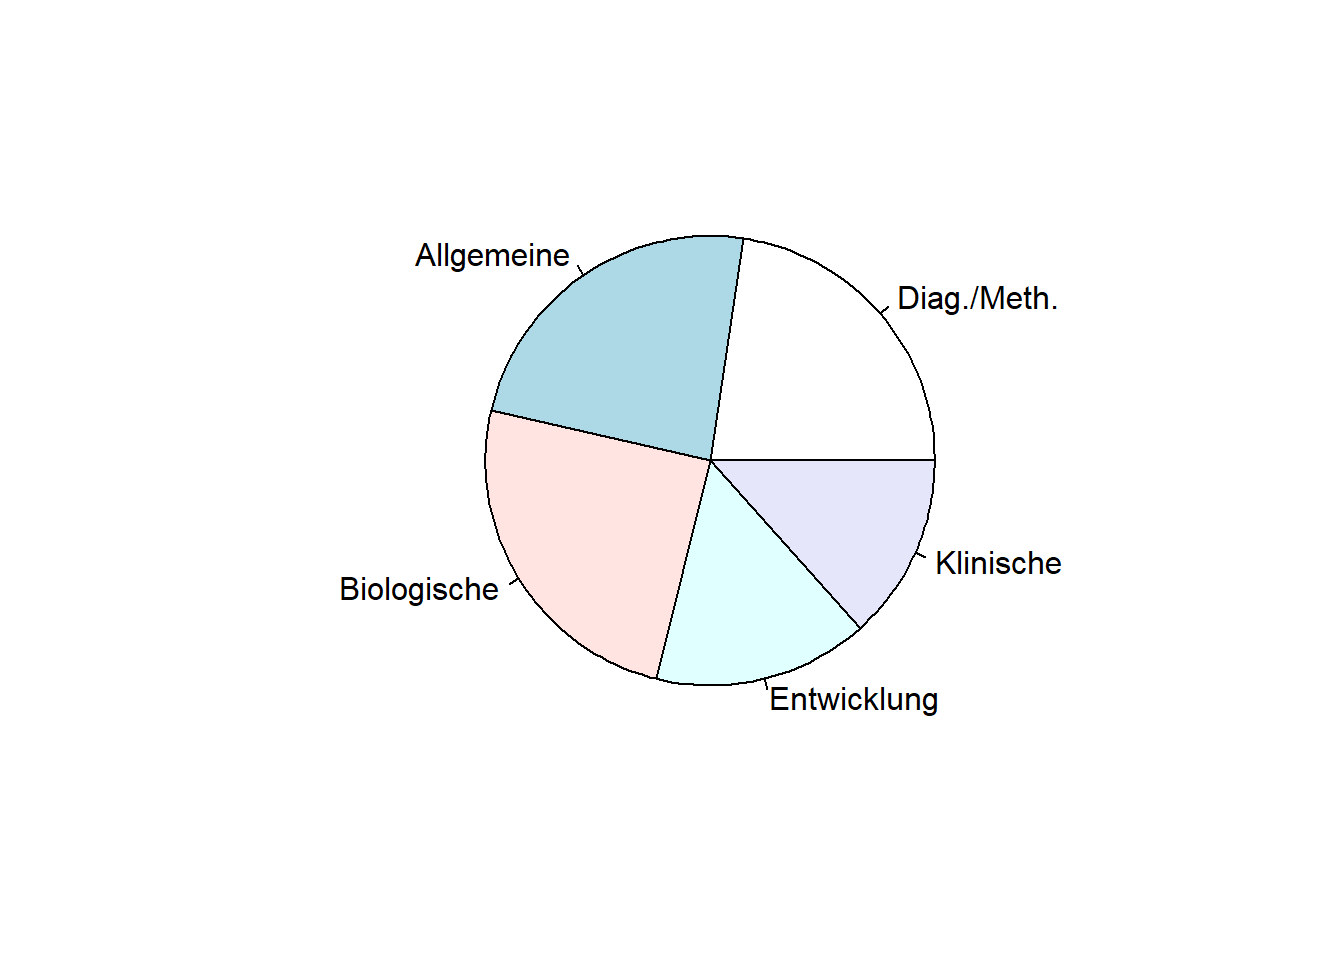
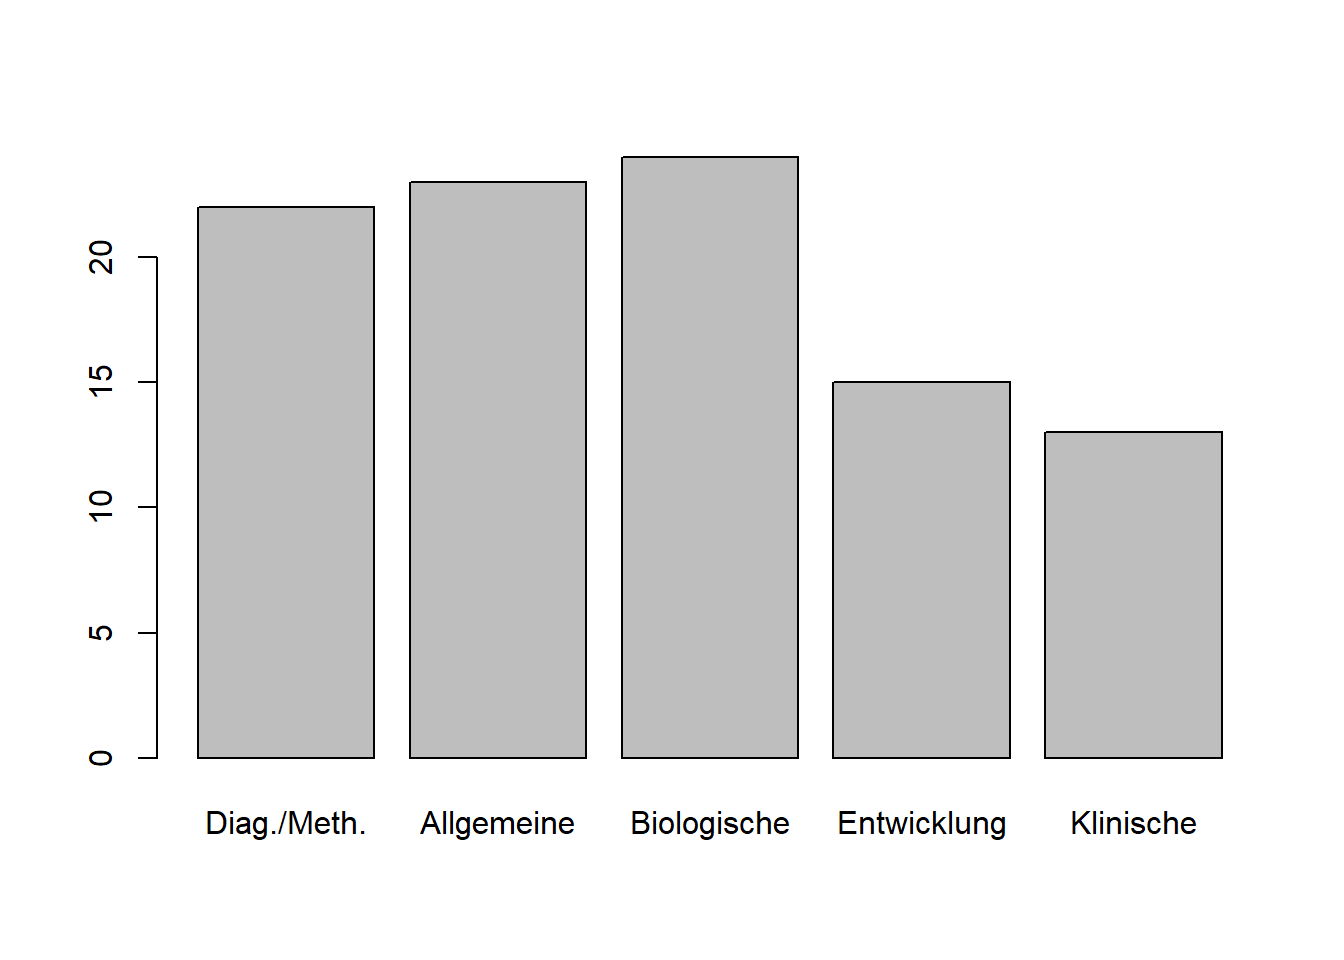
Update some examples to in 21 used scales in descriptive nominal.

diff --git a/content/post/2021-09-21-deskriptivstatistik-fuer-nominal-und-ordinalskalen.html b/content/post/2021-09-21-deskriptivstatistik-fuer-nominal-und-ordinalskalen.html
@@ -119,7 +119,7 @@ names(fb21)        # Namen der Variablen</code></pre>
 </div>
 <div id="nominalskalierte-variablen" class="section level2">
 <h2>Nominalskalierte Variablen</h2>
-<p>Typische Beispiele für nominalskalierte Variablen in der Psychologie sind das Geschlecht (z.B. Variable “geschl” in <code>fb21</code>), die Experimentalbedingung (z.B. “UV” und “AV”), die Gruppenzugehörigkeit, … Nominalskalierte Variablen sollten in <code>R</code> als <strong>Faktoren</strong> hinterlegt werden. Faktoren in <code>R</code> sind Vektoren mit einer vorab definierten Menge an vorgegebenen möglichen Ausprägungen. Sowohl numerische als auch character-Variablen können als Faktor kodiert werden, was mit jeweiligen Vorteilen einhergeht:</p>
+<p>Typische Beispiele für nominalskalierte Variablen in der Psychologie sind das Geschlecht (z.B. Variable “geschl” in <code>fb21</code>), die Experimentalbedingung (z.B. “Experimentalgruppe” und “Kontrollgruppe”) und viele Weitere. Nominalskalierte Variablen sollten in <code>R</code> als <strong>Faktoren</strong> hinterlegt werden. Faktoren in <code>R</code> sind Vektoren mit einer vorab definierten Menge an vorgegebenen möglichen Ausprägungen. Sowohl numerische als auch character-Variablen können als Faktor kodiert werden, was mit jeweiligen Vorteilen einhergeht:</p>
 <ul>
 <li>für numerische Variablen: es können (aussagekräftige) Labels zugewiesen (“hinterlegt”) werden. Diese werden dann für Tabellen und Grafiken übernommen<br />
 </li>
@@ -168,12 +168,13 @@ str(fb21$fach)</code></pre>
 <p>Hinweis: In Beispiel 2 wurde die Ursprungsvariable mit dem Faktor überschrieben. Sie ist nun verschwunden, der Datensatz enthält nur noch den Faktor, nicht mehr die numerische Variable.</p>
 <p><strong>Beispiel 3: Einen character-Vektor als Faktor aufbereiten</strong></p>
 <p>Um einen character-Vektor in einen Faktor umzukodieren, kann die Funktion <code>as.factor()</code> verwendet werden (siehe Skript zur Lehreinheit 1). Die Ausprägungen werden dann automatisch als Labels übernommen. Die Stufen (<code>levels</code>) werden in alphabetischer Reihenfolge vergeben.</p>
-<p>Nachfolgend wird zur Illustration die offenene Freitextantwort zum Grund für das Psychologiestudium (Variable <code>grund</code>) in einen Faktor umgewandelt. Dies ist nicht sinnvoll, da jede einzelne Freitextantwort vermutlich nur genau einmal vorkommt und später sowieso nicht (ohne zusätzliche Kodierung) in statistischen Analysen weiterverwendet werden kann.</p>
+<p>Nachfolgend wird zur Illustration die offenene Freitextantwort zum Grund für das Psychologiestudium (Variable <code>grund</code>) in einen Faktor umgewandelt.</p>
 <pre class="r"><code>str(fb21$grund)                            # Ursprungsvariable: Character</code></pre>
 <pre><code>##  chr [1:97] &quot;&quot; &quot;&quot; &quot;&quot; &quot;&quot; &quot;&quot; &quot;&quot; &quot;&quot; &quot;&quot; &quot;&quot; &quot;&quot; &quot;&quot; &quot;&quot; &quot;&quot; &quot;&quot; &quot;&quot; &quot;&quot; &quot;&quot; &quot;&quot; &quot;&quot; &quot;&quot; &quot;&quot; ...</code></pre>
 <pre class="r"><code>fb21$grund_faktor &lt;- as.factor(fb21$grund) # Umwandlung in Faktor
 str(fb21$grund_faktor)                     # neue Variable: Faktor</code></pre>
 <pre><code>##  Factor w/ 1 level &quot;&quot;: 1 1 1 1 1 1 1 1 1 1 ...</code></pre>
+<p>Die neue Variable ist nun ein Faktor mit 1 Stufen. Das Vorgehen ist nur zur Anschauung gedacht und in diesem speziellen Fall nicht sinnvoll, da jede einzelne Freitextantwort vermutlich nur genau einmal vorkommt und später sowieso nicht (ohne zusätzliche Kodierung) in statistischen Analysen weiterverwendet werden kann.</p>
 <p><strong>Hinweise zu den Levels und Labels</strong></p>
 <p>Die Reihenfolge von Levels und Labels ergibt sich während der Faktorerstellung:</p>
 <ul>
@@ -215,7 +216,7 @@ prop.table(tab)         # Relative</code></pre>
 <pre><code>## 
 ## Diag./Meth.  Allgemeine Biologische Entwicklung   Klinische 
 ##   0.2268041   0.2371134   0.2474227   0.1546392   0.1340206</code></pre>
-<p>Ungefähr 6% Ihres Jahrgangs geben als Lieblingsfach “Diagnostik/Methoden” an! Vielleicht können wir Sie mit dem nächsten Thema begeistern. :-)</p>
+<p>Ungefähr 22.6804124% Ihres Jahrgangs geben als Lieblingsfach “Diagnostik/Methoden” an! Vielleicht können wir Sie mit dem nächsten Thema begeistern. :-)</p>
 <hr />
 </div>
 <div id="grafiken-in-r" class="section level2">
@@ -224,10 +225,10 @@ prop.table(tab)         # Relative</code></pre>
 <p><strong>Säulen- oder Balkendiagramm</strong></p>
 <pre class="r"><code>barplot(tab)</code></pre>
 <p>Die Grafik erscheint in der RStudio-Standardansicht “unten rechts” im Reiter “Plots”:</p>
-<p><img src="/post/Screenshot-Barplot.PNG" /></p>
+<p><img src="/post/2021-09-21-deskriptivstatistik-fuer-nominal-und-ordinalskalen_files/figure-html/unnamed-chunk-12-1.png" width="672" style="display: block; margin: auto;" /></p>
 <p><strong>Kuchendiagramm</strong></p>
 <pre class="r"><code>pie(tab)</code></pre>
-<p><img src="/post/2021-09-21-deskriptivstatistik-fuer-nominal-und-ordinalskalen_files/figure-html/unnamed-chunk-12-1.png" width="60%" style="display: block; margin: auto;" /></p>
+<p><img src="/post/2021-09-21-deskriptivstatistik-fuer-nominal-und-ordinalskalen_files/figure-html/unnamed-chunk-13-1.png" width="60%" style="display: block; margin: auto;" /></p>
 <p><strong>Zusatzargumente für Plots</strong></p>
 <p>Die Funktionen zur Erstellung sehr simpler Grafiken sind also denkbar einfach - die Grafiken selbst aber zunächst nicht unbedingt hübsch. <code>R</code> bietet diverse Zusatzargumente zur Anpassung der Optik von Grafiken.</p>
 <table>
@@ -269,7 +270,7 @@ prop.table(tab)         # Relative</code></pre>
 </tbody>
 </table>
 <p><strong>Farben in <code>R</code></strong></p>
-<p><code>R</code> kennt eine ganze Reihe vordefinierter Farben (<span class="math inline">\(N = 657\)</span>) mit teilweise sehr poetischen Namen. Diese können mit der Funktion <code>colors()</code> (ohne Argument) abgerufen werden. Hier sind die ersten 20 Treffer:</p>
+<p><code>R</code> kennt eine ganze Reihe vordefinierter Farben ($N = $ 657) mit teilweise sehr poetischen Namen. Diese können mit der Funktion <code>colors()</code> (ohne Argument) abgerufen werden. Hier sind die ersten 20 Treffer:</p>
 <pre class="r"><code>colors()[1:20]</code></pre>
 <pre><code>##  [1] &quot;white&quot;         &quot;aliceblue&quot;     &quot;antiquewhite&quot;  &quot;antiquewhite1&quot;
 ##  [5] &quot;antiquewhite2&quot; &quot;antiquewhite3&quot; &quot;antiquewhite4&quot; &quot;aquamarine&quot;   
@@ -280,11 +281,11 @@ prop.table(tab)         # Relative</code></pre>
 <p>Zusätzlich können Farbpaletten verwendet werden. Sie bestehen aus einem Farbverlauf, aus dem einzelne Farben “herausgezogen” werden, wodurch ein zusammengehöriges Farbthema in einer Abbildung entsteht. <code>R</code> liefert einige dieser Paletten: <code>rainbow(...)</code>, <code>heat.colors(...)</code>, <code>topo.colors(...)</code>, … Die Farbpalette wird ebenfalls per <code>col</code>-Argugment spezifiziert. Technisch handelt es sich um eine Funktion, für die als Argument die Anzahl der Farben spezifiziert werden muss, die aus der Palette “gezogen” werden sollen. Beispielsweise werden mit <code>col = rainbow(5)</code> fünf Farben aus der rainbow-Palette gezogen.</p>
 <p><strong>Beispiel für angepasste Abbildung</strong></p>
 <pre class="r"><code>barplot(tab,
- col = rainbow(20),
+ col = rainbow(5),
  xlab = &#39;Studierende (Anzahl)&#39;,
  main = &#39;Lieblingsfach im 1. Semester&#39;,
  las=1)</code></pre>
-<p><img src="/post/2021-09-21-deskriptivstatistik-fuer-nominal-und-ordinalskalen_files/figure-html/unnamed-chunk-14-1.png" width="672" /></p>
+<p><img src="/post/2021-09-21-deskriptivstatistik-fuer-nominal-und-ordinalskalen_files/figure-html/unnamed-chunk-15-1.png" width="672" /></p>
 <p><strong>Grafiken speichern</strong></p>
 <p>Es gibt zwei Möglichkeiten, um in <code>R</code> erzeugte Grafiken als Bilddatei zu speichern: manuell und per Funktion.</p>
 <p><em>Möglichkeit 1: Manuelles Speichern</em></p>
@@ -345,18 +346,25 @@ relinf</code></pre>
 <h2>Ordinalskalierte Variablen</h2>
 <p>In diesem Abschnitt lernen Sie deskriptivstatistische Kennwerte für ordinalskalierte Variablen kennen. Aus der Vorlesung wissen Sie schon, dass Median und Interquartilsabstand (IQB) nur für die Klasse der geordneten Kategorien (auch “Rangklassen”) sinnvoll sind, nicht für singuläre Daten (“Rangwerte”).</p>
 <p>Zunächst aber eine Wiederholung: Wie Sie aus der Vorlesung wissen, könnnen die in der Tabelle am Anfang dieses Dokuments aufgeführten statistischen Kennwerte (Zentrale Lage, Dispersion) auch für Skalenniveaus genutzt werden, die “weiter unten” in der Tabelle stehen. Für ordinalskalierte Variablen (Rangklassen) kann also auch der Modus berechnet werden.</p>
-<p>Nachfolgend soll mit Item 4 des mdbf gearbeitet werden. Es wurde wie folgt erhoben:</p>
-<p><img src="/post/fb_mdbf1.png" /></p>
+<p>Nachfolgend soll mit Item 1 des Prokrastinationsfragebogens gearbeitet werden. Es wurde wie folgt erhoben:</p>
+<p><img src="/post/fb_prok1.PNG" /></p>
 <p>Es treten die Werte 1 bis 4 empirisch auf, außerdem gibt es zwei fehlende Werte (dargestellt als <code>NA</code>):</p>
-<pre class="r"><code>fb21$mdbf4</code></pre>
-<pre><code>## NULL</code></pre>
+<pre class="r"><code>fb21$prok1</code></pre>
+<pre><code>##  [1] 1 3 2 3 3 2 1 3 4 4 2 1 2 3 1 2 1 1 1 2 3 2 2 2 3 2 2 3 1 3 1 4 1 4 3 2 1 3
+## [39] 1 4 4 2 2 4 2 1 2 3 4 3 1 2 3 4 3 2 4 2 3 1 1 3 4 1 3 1 3 2 4 2 1 3 3 3 4 4
+## [77] 4 2 1 4 4 4 2 4 1 3 1 2 3 1 2 2 2 2 4 4 3</code></pre>
 <p>Wiederholung:</p>
-<pre class="r"><code>table(fb21$mdbf4)               # Absolute Haeufigkeiten</code></pre>
-<pre><code>## &lt; table of extent 0 &gt;</code></pre>
-<pre class="r"><code>prop.table(table(fb21$mdbf4))   # Relative Haeufigkeiten</code></pre>
-<pre><code>## numeric(0)</code></pre>
-<pre class="r"><code>which.max(table(fb21$mdbf4))    # Modus</code></pre>
-<pre><code>## integer(0)</code></pre>
+<pre class="r"><code>table(fb21$prok1)               # Absolute Haeufigkeiten</code></pre>
+<pre><code>## 
+##  1  2  3  4 
+## 23 28 25 21</code></pre>
+<pre class="r"><code>prop.table(table(fb21$prok1))   # Relative Haeufigkeiten</code></pre>
+<pre><code>## 
+##         1         2         3         4 
+## 0.2371134 0.2886598 0.2577320 0.2164948</code></pre>
+<pre class="r"><code>which.max(table(fb21$prok1))    # Modus</code></pre>
+<pre><code>## 2 
+## 2</code></pre>
 </div>
 <div id="Fehlend" class="section level2">
 <h2>Fehlende Werte</h2>
@@ -396,35 +404,32 @@ relinf</code></pre>
 <div id="deskriptivstatistische-kennwerte-ab-ordinalskalenniveau" class="section level2">
 <h2>Deskriptivstatistische Kennwerte ab Ordinalskalenniveau</h2>
 <p><strong>Median für ordinalskalierte Variablen</strong></p>
-<pre class="r"><code>median(fb21$mdbf4)                 # Ohne Argument für NA: funktioniert nicht</code></pre>
-<pre><code>## NULL</code></pre>
-<pre class="r"><code>median(fb21$mdbf4, na.rm = TRUE)   # Expliziter Ausschluss: funktioniert</code></pre>
-<pre><code>## NULL</code></pre>
-<p>Der Median für die Variable <code>mdbf4</code> beträgt also .</p>
+<pre class="r"><code>median(fb21$prok1)                 # Ohne Argument für NA: funktioniert nicht</code></pre>
+<pre><code>## [1] 2</code></pre>
+<pre class="r"><code>median(fb21$prok1, na.rm = TRUE)   # Expliziter Ausschluss: funktioniert</code></pre>
+<pre><code>## [1] 2</code></pre>
+<p>Der Median für die Variable <code>prok1</code> beträgt also 2.</p>
 <p><strong>Quantile und IQB</strong></p>
 <p>Für eine Beschreibung der Dispersion wird häufig der Interquartilsbereich (IQB) genutzt. IQB ist der Bereich zwischen dem 1. und dem 3. Quartil. Auch dafür gibt es keine Funktion in <code>R</code>, das Dispersionsmaß kann aber einfach “per Hand” selbst berechnet werden:</p>
 <p><span class="math display">\[IQB = Q_3 - Q_1\]</span></p>
 <p>Um die Quartile oder jedes beliebige andere Quantil einer Verteilung zu erhalten, kann die Funktion <code>quantile()</code> verwendet werden:</p>
-<pre class="r"><code>quantile(fb21$mdbf4,
+<pre class="r"><code>quantile(fb21$prok1,
          c(.25, .5, .75),                   # Quartile anfordern
          na.rm = T)</code></pre>
 <pre><code>## 25% 50% 75% 
-##  NA  NA  NA</code></pre>
+##   2   2   3</code></pre>
 <p>Zur Berechnung des IQB wird nun die Differenz aus drittem und erstem Quartil gebildet:</p>
-<pre class="r"><code>quantile(fb21$mdbf4, .75, na.rm=T) - quantile(fb21$mdbf4, .25, na.rm=T)</code></pre>
+<pre class="r"><code>quantile(fb21$prok1, .75, na.rm=T) - quantile(fb21$prok1, .25, na.rm=T)</code></pre>
 <pre><code>## 75% 
-##  NA</code></pre>
-<p>Der IQB der Variable <code>mdbf4</code> beträgt NA.</p>
+##   1</code></pre>
+<p>Der IQB der Variable <code>prok1</code> beträgt 1.</p>
 <hr />
 </div>
 <div id="boxplots" class="section level2">
 <h2>Boxplots</h2>
 <p>Eine geeignete grafische Darstellungsform für (mindestens) ordinalskalierte Daten ist der Boxplot. Er kann über die Funktion <code>boxplot()</code> angefordert werden:</p>
-<pre class="r"><code>boxplot(fb21$mdbf4)</code></pre>
-<pre><code>## Warning in min(x): kein nicht-fehlendes Argument für min; gebe Inf zurück</code></pre>
-<pre><code>## Warning in max(x): kein nicht-fehlendes Argument für max; gebe -Inf zurück</code></pre>
-<pre><code>## Error in plot.window(xlim = xlim, ylim = ylim, log = log, yaxs = pars$yaxs): endliche &#39;ylim&#39; Werte nötig</code></pre>
-<p><img src="/post/2021-09-21-deskriptivstatistik-fuer-nominal-und-ordinalskalen_files/figure-html/unnamed-chunk-24-1.png" width="672" /></p>
+<pre class="r"><code>boxplot(fb21$prok1)</code></pre>
+<p><img src="/post/2021-09-21-deskriptivstatistik-fuer-nominal-und-ordinalskalen_files/figure-html/unnamed-chunk-25-1.png" width="672" /></p>
 <p>Zur Erinnerung:</p>
 <ul>
 <li>Box: Quartile<br />
@@ -434,25 +439,18 @@ relinf</code></pre>
 <li>Noch extremere Werte werden als Punkte dargestellt</li>
 </ul>
 <p>In diesem Beispiel betragen Median und Q3 jeweils 2, sodass sich die entsprechenden Linien überlagern. Ein Beispiel für einen “schöneren” Boxplot (ohne Überlagerung) ist dieses:</p>
-<pre class="r"><code>boxplot(fb21$mdbf2)</code></pre>
-<pre><code>## Warning in min(x): kein nicht-fehlendes Argument für min; gebe Inf zurück</code></pre>
-<pre><code>## Warning in max(x): kein nicht-fehlendes Argument für max; gebe -Inf zurück</code></pre>
-<pre><code>## Error in plot.window(xlim = xlim, ylim = ylim, log = log, yaxs = pars$yaxs): endliche &#39;ylim&#39; Werte nötig</code></pre>
-<p><img src="/post/2021-09-21-deskriptivstatistik-fuer-nominal-und-ordinalskalen_files/figure-html/unnamed-chunk-25-1.png" width="672" /></p>
+<pre class="r"><code>boxplot(fb21$prok1)</code></pre>
+<p><img src="/post/2021-09-21-deskriptivstatistik-fuer-nominal-und-ordinalskalen_files/figure-html/unnamed-chunk-26-1.png" width="672" /></p>
 <p>Auch ein Boxplot kann grafisch angepasst werden. Nachfolgend sehen Sie ein Beispiel, in dem möglichst viel verändert wurde, um die verschiedenen Möglichkeiten aufzuzeigen. Nicht alle Veränderungen sind unbedingt sinnvoll.</p>
-<pre class="r"><code>boxplot(fb21$mdbf2,
+<pre class="r"><code>boxplot(fb21$prok1,
         horizontal = TRUE,
-        main = &quot;WS 2019/2020: Item mdbf1&quot;,
+        main = &quot;WS 2021/2022: Item prok1&quot;,
         xlab = &quot;Ausprägung&quot;,
         las = 1,
         width = 2,
-        notch = TRUE,
         border = &quot;red&quot;,
         col = &quot;pink1&quot;)</code></pre>
-<pre><code>## Warning in min(x): kein nicht-fehlendes Argument für min; gebe Inf zurück</code></pre>
-<pre><code>## Warning in max(x): kein nicht-fehlendes Argument für max; gebe -Inf zurück</code></pre>
-<pre><code>## Error in plot.window(ylim = xlim, xlim = ylim, log = log, xaxs = pars$yaxs): endliche &#39;xlim&#39; Werte nötig</code></pre>
-<p><img src="/post/2021-09-21-deskriptivstatistik-fuer-nominal-und-ordinalskalen_files/figure-html/unnamed-chunk-26-1.png" width="672" /></p>
+<p><img src="/post/2021-09-21-deskriptivstatistik-fuer-nominal-und-ordinalskalen_files/figure-html/unnamed-chunk-27-1.png" width="672" /></p>
 <hr />
 </div>
 <div id="kurzer-exkurs--" class="section level2">
